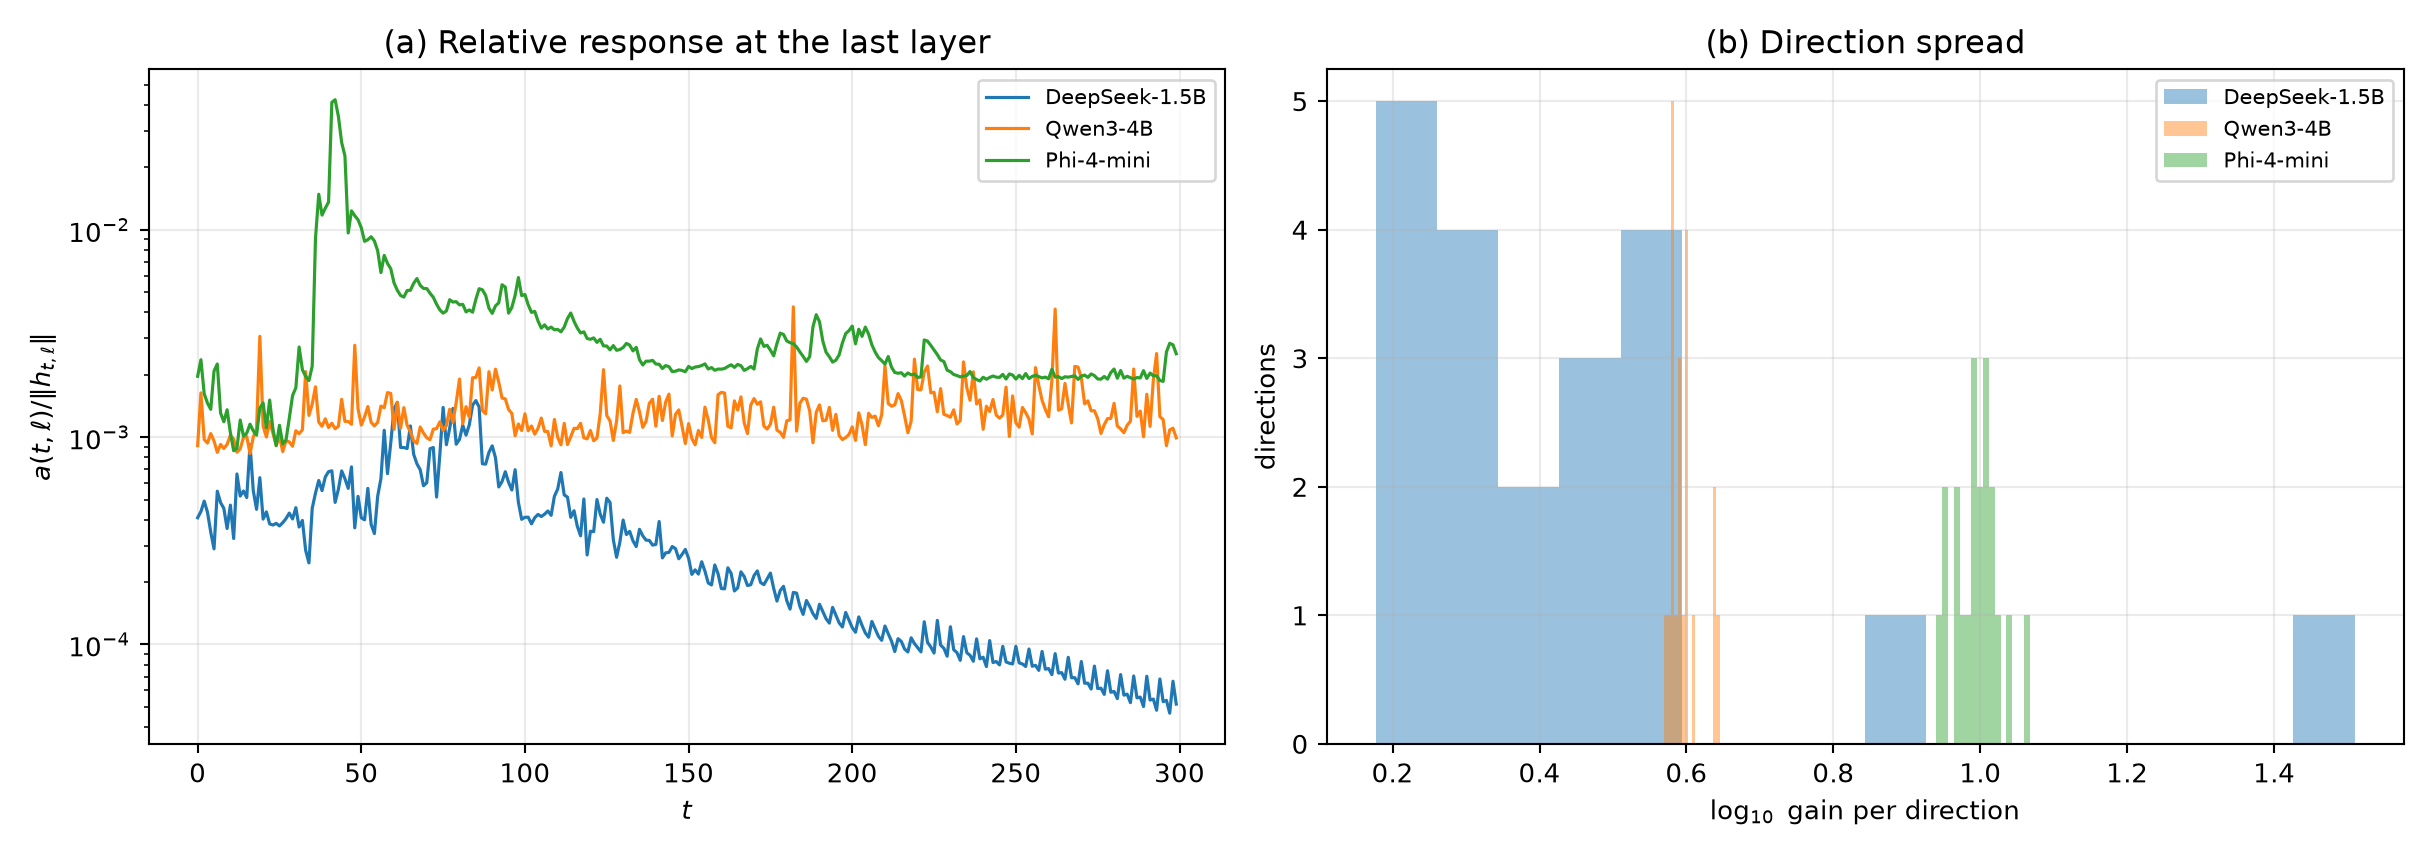
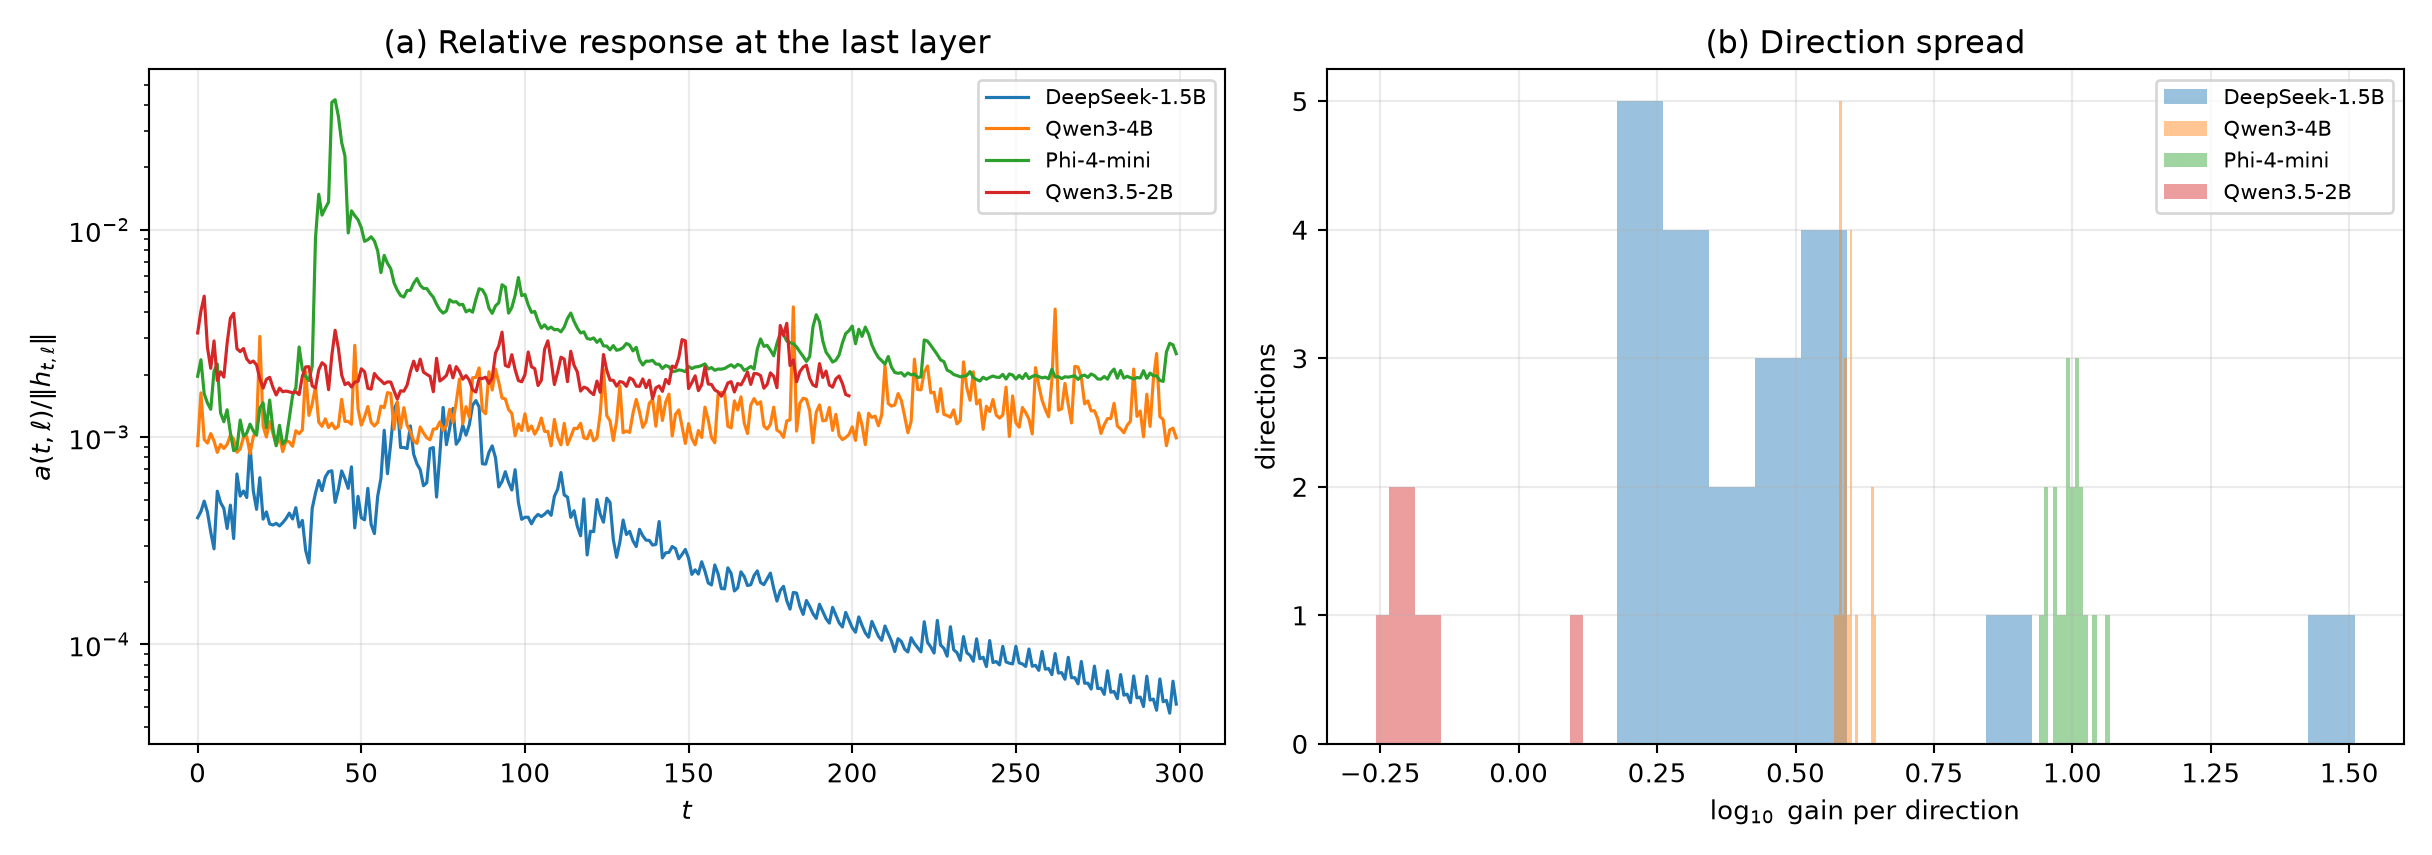
Qwen3.5-2B suite (calib, A1, state, trajectories); cross-model 4-model comparison

diff --git a/src/chaos_llm/protocol.py b/src/chaos_llm/protocol.py
@@ -43,12 +43,18 @@ def model_info(model, dtype=None):
     """Config-only description; does not load weights."""
     path = resolve_model_path(model)
     cfg = AutoConfig.from_pretrained(path, local_files_only=True)
-    params = estimate_params(cfg)
+    tc = getattr(cfg, "text_config", cfg)
+    H = getattr(tc, "hidden_size", getattr(cfg, "hidden_size", 1536))
+    L = getattr(tc, "num_hidden_layers", getattr(cfg, "num_hidden_layers", 28))
+    F = getattr(tc, "intermediate_size", 4 * H)
+    V = getattr(tc, "vocab_size", getattr(cfg, "vocab_size", 150000))
+    params = V * H + L * (4 * H * H + 2 * H * F) + 2 * H
     if dtype is None or dtype == "auto":
+        dtype = os.environ.get("CHAOS_DTYPE", "")
+    if dtype in (None, "", "auto"):
         dtype = "float32" if params * 4 <= 9.5e9 else "float16"
-    return dict(path=path, params=params, dtype=dtype, hidden_size=cfg.hidden_size,
-                num_layers=cfg.num_hidden_layers, vocab_size=getattr(cfg, "vocab_size", None),
-                sliding_window=getattr(cfg, "sliding_window", None),
+    return dict(path=path, params=params, dtype=dtype, hidden_size=H, num_layers=L,
+                vocab_size=V, sliding_window=getattr(tc, "sliding_window", None),
                 use_sliding_window=getattr(cfg, "use_sliding_window", None))
 
 

diff --git a/scripts/notebook_fig_models_rel.py b/scripts/notebook_fig_models_rel.py
@@ -10,6 +10,7 @@ RUNS = [
     ("DeepSeek-1.5B", r"C:\Users\hjaca\research\chaos_llm_2026\results\local_data\w100_layers\a1.npz", 27),
     ("Qwen3-4B", r"C:\Users\hjaca\research\chaos_llm_2026\results\local_data\models\qwen3_4b\a1.npz", 32),
     ("Phi-4-mini", r"C:\Users\hjaca\research\chaos_llm_2026\results\local_data\models\phi\a1.npz", 28),
+    ("Qwen3.5-2B", r"C:\Users\hjaca\research\chaos_llm_2026\results\local_data\models\qwen35\a1.npz", 23),
 ]
 
 fig, axs = plt.subplots(1, 2, figsize=(12.8, 4.5))

diff --git a/scripts/notebook_fig_model_lambda.py b/scripts/notebook_fig_model_lambda.py
@@ -9,6 +9,7 @@ RUNS = [
     ("DeepSeek-1.5B", r"C:\Users\hjaca\research\chaos_llm_2026\results\local_data\w100_layers\a1.npz", 27),
     ("Qwen3-4B", r"C:\Users\hjaca\research\chaos_llm_2026\results\local_data\models\qwen3_4b\a1.npz", 32),
     ("Phi-4-mini", r"C:\Users\hjaca\research\chaos_llm_2026\results\local_data\models\phi\a1.npz", 28),
+    ("Qwen3.5-2B", r"C:\Users\hjaca\research\chaos_llm_2026\results\local_data\models\qwen35\a1.npz", 23),
 ]
 
 fig, axs = plt.subplots(1, 2, figsize=(13, 4.6))

diff --git a/notebook/notebook.md b/notebook/notebook.md
@@ -602,6 +602,8 @@ gain per direction.
   $+0.0004$ — statistically near zero, but *not negative*.
 - **Phi-4-mini**: a **strong transient burst** (a rises 10× from $t=10$ to $t\approx40$), with
   $\lambda_{10}$ up to $+0.19$ nats/token, then a sharp negative phase and a near-zero tail.
+- **Qwen3.5-2B**: response decays slowly (relative response 3.7e-3 → 2.1e-3 from $t=10$ to 50);
+  early rate −0.004, late $+0.0006$ — also near-neutral.
 
 So the "contracting, stable-chaos" regime we established for DeepSeek is **not universal**: the
 same protocol on Phi-4-mini produces a genuine transient amplification, and Qwen3-4B is close to
